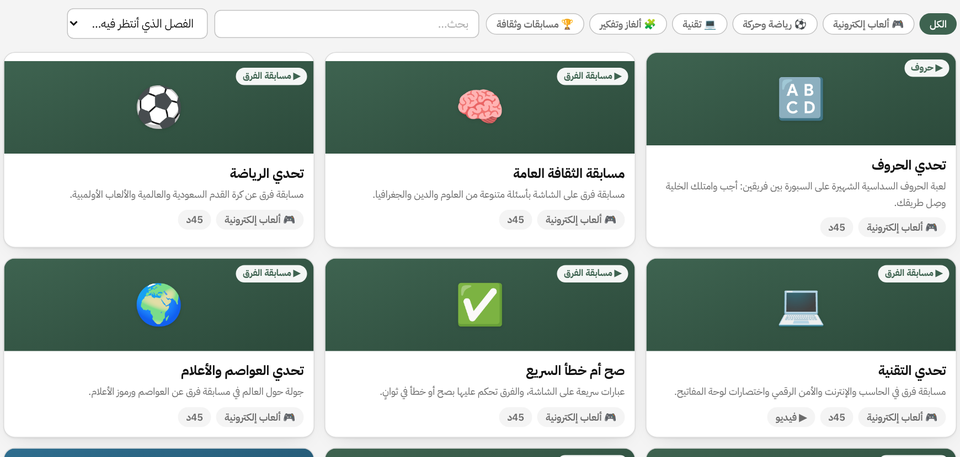
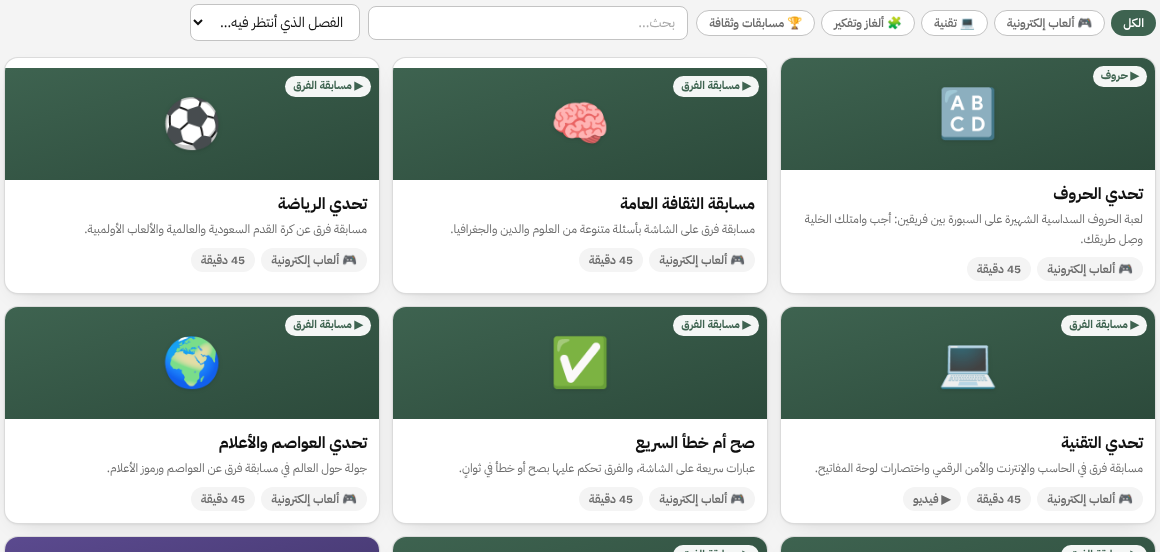
حقيبة الانتظار: إلغاء قسم «رياضة وحركة» لصعوبة تنفيذه، وتحديث المنشور (8 بطاقات)
Claude-Session: https://claude.ai/code/session_01Rgn9H8rfrs15u85uTK8qzM

diff --git a/src/pages/Help.jsx b/src/pages/Help.jsx
@@ -20,7 +20,7 @@ const PROCS = [
   { cat: "المعلم", who: ["المعلم"], title: "تحضير حصة", path: "الحضور والغياب اليومي", steps: ["تفتح الشاشة على الحصة الجارية تلقائيًا، وفي الفسحة على الحصة التي انتهت للتو. أو اختر حصة من الشريط الأفقي.", "راجع قائمة الطلاب: الافتراضي «حاضر» للجميع.", "غيّر حالة من تأخر أو غاب بالضغط على زر الحالة أمام اسمه.", "اضغط «حفظ التحضير» أسفل الشاشة."], note: "الطالب المستأذن بقرار إداري يظهر مقفلًا ولا يعدّله المعلم. وشارة «لم يبصم» تعني أنه لم يدخل المدرسة صباحًا.", warn: "لا تُحضَّر الحصة قبل بدايتها: تظهر باهتة بشارة «لم تبدأ بعد»، ويصير الزر «يُفتح التحضير الساعة …»، ثم يُفتح وحده حين يحين وقتها." },
   { cat: "المعلم", who: ["المعلم"], title: "ملاحظات الطلاب الصحية والسلوكية والنفسية", path: "الحضور والغياب اليومي", steps: ["تحت اسم الطالب في كشف التحضير تظهر شارة إن كانت له ملاحظة: «صحية» بالأحمر، أو «سلوكية» بالأصفر، أو «نفسية» بالأزرق.", "اضغط الشارة لقراءة الملاحظة وما يُطلب منك فعله، مع اسم كاتبها وتاريخها.", "للاطلاع على ملاحظات الفصل كله دفعة واحدة اضغط «ملاحظات الطلاب» أعلى الكشف."], note: "تظهر لك ملاحظات طلاب فصولك فقط. يكتبها الموجه الصحي والموجهون الطلابيون، وتختفي بعد تاريخ مراجعتها ما لم تُجدَّد.", warn: "هذه معلومات خاصة بالطالب: لا تعرضها أمام زملائه أو على شاشة الفصل، ولا تشاركها خارج البوابة." },
   { cat: "المعلم", who: ["المعلم"], title: "تحضير حصة انتظار", path: "القائمة ← حصص الانتظار", steps: ["أثناء الحصة افتح «حصص الانتظار» من القائمة.", "تظهر فصول الحصة الجارية التي لم يحضّرها معلمها بعد ١٠ دقائق من بداية الحصة، مهلةً تعطي المعلم الأصلي فرصة، في حال حضوره، لاستكمال الحصة وإدخال الغياب.", "اضغط «دخول انتظار» أمام الفصل الذي تغطّيه.", "الجميع «حاضر» تلقائيًا، فغيّر فقط من غاب أو تأخر.", "اضغط «حفظ التحضير وتسجيلي معلم انتظار»."], note: "يُسجَّل الانتظار باسمك ويظهر في تقرير حصص الانتظار. وإن لم تجد الفصل فقد حضّره معلمه أو سبقك إليه زميل. وإن حضّره معلمه أثناء فتحك الكشف يُرفض حفظك ولا يُكتب فوق تحضيره. ومن له حصة في جدوله في الوقت نفسه لا تظهر له فصول الانتظار.", warn: "التحضير متاح أثناء الحصة نفسها فقط. والحصة التي لا تُحضَّر يبقى طلابها «لم يُحضَّروا»، فلا يُسجَّل الغائب غائبًا ولا تصله الإنذارات، وتنقص دقة نسبة اليوم." },
-  { cat: "الأنشطة والألعاب", who: ["المعلم"], title: "حقيبة حصص الانتظار", path: "القائمة ← الأنشطة والألعاب ← حقيبة حصص الانتظار", steps: ["بعد تسجيلك في «حصص الانتظار» اضغط «حقيبة حصص الانتظار»، أو افتحها من «الأنشطة والألعاب».", "اختر الفصل الذي تنتظر فيه، فتظهر أولًا الأنشطة التي لم تُقدَّم له من قبل.", "تصفّح الأقسام: ألعاب إلكترونية، ورياضة وحركة، وتقنية، وألغاز، ومسابقات، واختر بطاقة.", "للألعاب اضغط «ابدأ على السبورة» واعرضها بجهاز العرض، والفصل فريقان أو أكثر.", "في النهاية اضغط «نُفّذ» مع تقييمك 👍 أو 👎."], note: "حصة الانتظار للترفيه وتخفيف ضغط الحصص. والتقييم يساعد الوكيل على تطوير الحقيبة.", warn: "روابط الفيديو تحتاج إنترنت على جهاز العرض، أما الألعاب فتعمل دونه." },
+  { cat: "الأنشطة والألعاب", who: ["المعلم"], title: "حقيبة حصص الانتظار", path: "القائمة ← الأنشطة والألعاب ← حقيبة حصص الانتظار", steps: ["بعد تسجيلك في «حصص الانتظار» اضغط «حقيبة حصص الانتظار»، أو افتحها من «الأنشطة والألعاب».", "اختر الفصل الذي تنتظر فيه، فتظهر أولًا الأنشطة التي لم تُقدَّم له من قبل.", "تصفّح الأقسام: ألعاب إلكترونية، وتقنية، وألغاز، ومسابقات، واختر بطاقة.", "للألعاب اضغط «ابدأ على السبورة» واعرضها بجهاز العرض، والفصل فريقان أو أكثر.", "في النهاية اضغط «نُفّذ» مع تقييمك 👍 أو 👎."], note: "حصة الانتظار للترفيه وتخفيف ضغط الحصص. والتقييم يساعد الوكيل على تطوير الحقيبة.", warn: "روابط الفيديو تحتاج إنترنت على جهاز العرض، أما الألعاب فتعمل دونه." },
   { cat: "الأنشطة والألعاب", who: ["المعلم"], title: "لعبة «حروف» ومسابقة الفرق على السبورة", path: "الأنشطة والألعاب ← حقيبة حصص الانتظار ← ألعاب إلكترونية", steps: ["حروف: يختار الفريق حرفًا فاضغطه، واقرأ السؤال؛ جوابه يبدأ بالحرف.", "أول فريق يجيب صحيحًا: اضغط «للأخضر» أو «للأحمر» فتتلوّن الخلية.", "يفوز الأخضر إن وصل اليمين باليسار، والأحمر إن وصل الأعلى بالأسفل، ثم «جولة جديدة».", "مسابقة الفرق: اختر عدد الفرق ووقت السؤال، واعرض السؤال، ثم «إظهار الإجابة» وامنح النقطة للفريق الذي أجاب أولًا."], note: "تتخلل الألعاب أسئلة «🏫 من مدرستي» تُولَّد تلقائيًا من البوابة: معلمو المواد، والإدارة، وعدد الفصول، وأوقات الحصص، ومعمل الحاسب، والمناسبات — دون أي معلومة عن الطلاب. وتحتاج إنترنت لحظة البدء فقط. اضغط F لملء الشاشة، و«خروج» للعودة." },
   { cat: "الأنشطة والألعاب", who: ["المعلم"], title: "الأنشطة الصفية وأدوات الصف", path: "القائمة ← الأنشطة والألعاب", steps: ["«الأنشطة الصفية»: استراتيجيات وأنشطة جاهزة لدرسك، بخطواتها وزمنها.", "«أدوات الصف ودوري المادة»: اختر فصلك ومادتك من جدولك.", "«اختيار طالب»: اختيار عشوائي بلا تكرار، ويمكنك منحه نقاطًا في الدوري مباشرة.", "«المؤقت»: لأنشطة الوقت المحدد، و«عرض على السبورة» لعرض أي أداة بخط كبير.", "«🪟 نافذة عائمة»: تفتح الأدوات، أو خطوات النشاط الصفي مع مؤقت، في نافذة صغيرة تبقى فوق عرض درسك فتعود إليها متى احتجت."], warn: "النافذة العائمة تبقى فوق كل النوافذ في Chrome وEdge، وفي غيرهما تُفتح نافذة صغيرة مستقلة؛ وإن لم تظهر فاسمح بالنوافذ المنبثقة للبوابة.", note: "اضغط «نُفّذ» بعد النشاط الصفي، فيُسجَّل شاهدًا آليًا في ملف الأداء الوظيفي: 4-2 تفعيل الاستراتيجيات، و8-4 التنويع، و9-5 تنظيم الطلاب للأنشطة التعاونية." },
   { cat: "الأنشطة والألعاب", who: ["المعلم"], title: "دوري المادة وكأس المادة", path: "الأنشطة والألعاب ← أدوات الصف ودوري المادة", steps: ["دوري المادة (أفراد): اضغط اسم الطالب وامنحه +1 إلى +5، أو −1، مع سبب اختياري.", "كأس المادة (مجموعات): كوّن مجموعات الفصل عشوائيًا مرة واحدة، وغيّر أسماءها، وامنح المجموعة نقاطها.", "اعرض الترتيب على السبورة لتحفيز الطلاب.", "في نهاية الفصل الدراسي اضغط «شهادة بطل الدوري»، أو «شهادات بطل الكأس» (شهادة لكل عضو في المجموعة)، ثم «طباعة»."], note: "المنافسة بين طلاب الفصل الواحد في المادة، والنقاط تتجمع حتى نهاية الفصل الدراسي، فصاحب الأعلى بطل الدوري، والمجموعة الأعلى بطلة الكأس. وتُحتسب أيام منح النقاط شاهدًا آليًا في ملف الأداء (8-4)." },

diff --git a/src/activity-content/waiting.js b/src/activity-content/waiting.js
@@ -1,4 +1,4 @@
-// حقيبة حصص الانتظار: بطاقات جاهزة لحصة كاملة (45 دقيقة) يديرها أي معلم، أولويتها الترفيه والرياضة والتقنية والألعاب
+// حقيبة حصص الانتظار: بطاقات جاهزة لحصة كاملة (45 دقيقة) يديرها أي معلم، أولويتها الترفيه والألعاب والتقنية
 export default [
   // ===================== ألعاب إلكترونية على السبورة =====================
   {
@@ -436,133 +436,6 @@ export default [
         { q: "بيت بلا أبواب ولا نوافذ، يخرج منه ساكنه بكسر جداره، فما هو؟", options: ["الكهف", "البيضة", "الخيمة", "القوقعة"], answer: 1 },
       ],
     },
-  },
-
-  // ===================== رياضة وحركة داخل الفصل =====================
-  {
-    seed: "w-sports-leader-says",
-    kind: "waiting",
-    section: "sports",
-    title: "قال القائد",
-    summary: "لعبة حركية سريعة: نفّذ الحركة فقط إذا بدأت بعبارة «قال القائد».",
-    duration_min: 45,
-    goals: "تنشيط الجسم وكسر الخمول، وتنمية الانتباه وسرعة الاستجابة.",
-    materials: "لا شيء",
-    steps: [
-      { min: 5, text: "يقف الطلاب بجوار مقاعدهم بعد إبعاد الحقائب عن الممرات، واشرح القاعدة: نفّذ فقط ما يسبقه «قال القائد»." },
-      { min: 15, text: "أعطِ أوامر حركية خفيفة (ارفع يدك، المس كتفك، اجلس وقف، دُر في مكانك)، ومن ينفذ أمرًا بلا «قال القائد» يجلس." },
-      { min: 15, text: "اجعل آخر ثلاثة طلاب قادة يديرون الجولات التالية، مع تسريع الإيقاع تدريجيًا." },
-      { min: 7, text: "جولة النهائي بين أفضل خمسة طلاب أمام الفصل." },
-      { min: 3, text: "تمارين تهدئة: تنفس عميق خمس مرات ثم الجلوس." },
-    ],
-    grades: [],
-    emoji: "🫡",
-    game: null,
-    game_data: null,
-  },
-  {
-    seed: "w-sports-desk-stretch",
-    kind: "waiting",
-    section: "sports",
-    title: "لياقة المقعد",
-    summary: "برنامج إطالة وتمارين خفيفة يؤديها الطالب بجوار مقعده لتنشيط الجسم.",
-    duration_min: 45,
-    goals: "تخفيف آثار الجلوس الطويل، ونشر ثقافة النشاط البدني اليومي.",
-    materials: "لا شيء (ساعة أو مؤقت على الشاشة اختياريًا)",
-    steps: [
-      { min: 5, text: "اشرح فائدة الحركة بعد الجلوس الطويل، وتأكد من وجود مسافة آمنة بين الطلاب." },
-      { min: 10, text: "إطالة من الرأس إلى القدم: الرقبة، الكتفان، الذراعان، الظهر، السمانة، مع ثبات 15 ثانية لكل وضع." },
-      { min: 15, text: "دوائر لياقة: 30 ثانية لكل تمرين (قرفصاء، جلوس على الحائط، دوائر الذراعين، رفع الركبتين في المكان) ثم 30 ثانية راحة." },
-      { min: 10, text: "يقود كل صف من الطلاب تمرينًا آمنًا يقترحه أمام الفصل." },
-      { min: 5, text: "تهدئة وتنفس عميق، ثم حوار قصير: كيف تضيف خمس دقائق حركة إلى يومك؟" },
-    ],
-    grades: [],
-    emoji: "🤸",
-    game: null,
-    game_data: null,
-  },
-  {
-    seed: "w-sports-paper-basket",
-    kind: "waiting",
-    section: "sports",
-    title: "سلة الورق",
-    summary: "دوري تصويب بكرات ورقية نحو سلة المهملات بين فرق الفصل.",
-    duration_min: 45,
-    goals: "تنمية دقة التصويب والتآزر، وإدخال المرح بمنافسة رياضية بسيطة.",
-    materials: "سلة مهملات فارغة أو صندوق، وأوراق مستعملة تُكوَّر كرات",
-    steps: [
-      { min: 5, text: "ضع السلة أمام السبورة، وحدد بشريط أو طباشير ثلاثة خطوط تصويب: قريب (نقطة)، متوسط (نقطتان)، بعيد (ثلاث)." },
-      { min: 5, text: "قسّم الفصل إلى أربع فرق، ويصنع كل فريق خمس كرات ورقية." },
-      { min: 25, text: "يتناوب لاعبو الفرق على التصويب، ويختار كل لاعب الخط الذي يناسبه، وسجّل النقاط على السبورة." },
-      { min: 7, text: "النهائي: أفضل لاعب من كل فريق، ثلاث رميات من الخط البعيد." },
-      { min: 3, text: "أعلن البطل، ويجمع الجميع الأوراق في السلة لتبقى الغرفة نظيفة." },
-    ],
-    grades: [],
-    emoji: "🏀",
-    game: null,
-    game_data: null,
-  },
-  {
-    seed: "w-sports-fitness-dice",
-    kind: "waiting",
-    section: "sports",
-    title: "نرد اللياقة",
-    summary: "يُرمى النرد ليحدد التمرين وعدد تكراراته في تحدٍّ بين الصفوف.",
-    duration_min: 45,
-    goals: "رفع النشاط البدني بطريقة عشوائية مشوقة، وتعزيز روح الفريق.",
-    materials: "نرد واحد أو اثنان (أو نرد رقمي على الشاشة)",
-    steps: [
-      { min: 5, text: "اكتب على السبورة ستة تمارين آمنة مرقمة: 1 قرفصاء، 2 رفع الركبتين، 3 دوائر الذراعين، 4 الوقوف على قدم واحدة، 5 جلوس على الحائط، 6 تمرين يختاره الطالب." },
-      { min: 25, text: "يرمي طالب من كل صف النرد الأول لتحديد التمرين، والثاني لعدد التكرارات ×5، وينفذه الصف كله معًا." },
-      { min: 10, text: "تحدي الصفوف: أي صف ينفذ التمرين بانضباط وتزامن أفضل يكسب نقطة." },
-      { min: 5, text: "تهدئة وإطالة، ثم إعلان الصف الأكثر انضباطًا." },
-    ],
-    grades: [],
-    emoji: "🎲",
-    game: null,
-    game_data: null,
-  },
-  {
-    seed: "w-sports-question-ball",
-    kind: "waiting",
-    section: "sports",
-    title: "الكرة الطائرة بالأسئلة",
-    summary: "تتنقل كرة ورقية بين الطلاب، ومن يلتقطها يجيب سؤالًا سريعًا.",
-    duration_min: 45,
-    goals: "الجمع بين الحركة الخفيفة والتفكير السريع والمشاركة الشاملة.",
-    materials: "كرة إسفنجية أو كرة ورق ملفوفة بشريط لاصق",
-    steps: [
-      { min: 5, text: "يقف الطلاب في أماكنهم، واشرح القاعدة: تُرمى الكرة رمية خفيفة من أسفل، ومن يلتقطها يجيب." },
-      { min: 15, text: "جولة «اذكر ثلاثة»: من يلتقط الكرة يذكر ثلاثة أشياء من فئة تحددها (أندية، دول، فواكه...) ثم يرمي لغيره." },
-      { min: 15, text: "جولة «سؤال وجواب»: الملتقط يطرح سؤالًا معلوماتيًا على من يرمي إليه." },
-      { min: 7, text: "جولة السرعة: من يتأخر أكثر من 5 ثوانٍ يجلس، حتى يبقى ثلاثة أبطال." },
-      { min: 3, text: "تحية للأبطال وجلوس هادئ." },
-    ],
-    grades: [],
-    emoji: "🏐",
-    game: null,
-    game_data: null,
-  },
-  {
-    seed: "w-sports-balance",
-    kind: "waiting",
-    section: "sports",
-    title: "تحدي التوازن والتركيز",
-    summary: "سلسلة تحديات توازن وتنسيق آمنة تناسب المساحة الصغيرة.",
-    duration_min: 45,
-    goals: "تنمية التوازن والتآزر الحركي والتركيز وضبط النفس.",
-    materials: "كتاب أو دفتر لكل طالب، وقلم",
-    steps: [
-      { min: 5, text: "اشرح التحديات وأكد على السلامة: لا قفز ولا دفع، وكل طالب في مساحته." },
-      { min: 10, text: "تحدي القدم الواحدة: الوقوف على قدم واحدة أطول مدة ممكنة، ثم بعينين مغمضتين." },
-      { min: 10, text: "تحدي الكتاب: المشي ببطء في الممر وكتاب على الرأس ذهابًا وإيابًا، بالتناوب بين الصفوف." },
-      { min: 15, text: "تحدي التنسيق: لمس الأنف بيد والأذن المقابلة باليد الأخرى ثم التبديل بسرعة متزايدة، وتمرير قلم بين الصف دون استخدام الإبهام." },
-      { min: 5, text: "تتويج أبطال كل تحدٍّ، ثم تمرين تنفس للتهدئة." },
-    ],
-    grades: [],
-    emoji: "🧘",
-    game: null,
-    game_data: null,
   },
 
   // ===================== تقنية =====================

diff --git a/docs/activities-post/post.html b/docs/activities-post/post.html
@@ -59,7 +59,7 @@ h1 em{font-style:normal;color:#3E6350}
 
 <div class="row">
  <div class="feats">
-  <div class="c"><i><img src="../model-lesson/build/icons/Puzzle.png"></i><div><b>حقيبة حصص الانتظار</b><p>8 أنشطة ترفيهية: ألعاب إلكترونية، ورياضة وحركة، وتقنية، وألغاز.</p></div></div>
+  <div class="c"><i><img src="../model-lesson/build/icons/Puzzle.png"></i><div><b>حقيبة حصص الانتظار</b><p>8 أنشطة ترفيهية: ألعاب إلكترونية، وتقنية، وألغاز.</p></div></div>
   <div class="c"><i><img src="../model-lesson/build/icons/Rocket.png"></i><div><b>الأنشطة الصفية</b><p>20 استراتيجية تعلّم نشط جاهزة بخطواتها وزمنها، في نافذة عائمة فوق عرض درسك.</p></div></div>
   <div class="c"><i><img src="../model-lesson/build/icons/Trophy.png"></i><div><b>دوري المادة وكأسها</b><p>نقاط للطلاب أفرادًا ومجموعات، وشهادة للبطل في نهاية الفصل الدراسي.</p></div></div>
   <div class="c"><i><img src="../model-lesson/build/icons/Timer.png"></i><div><b>أدوات الصف</b><p>اختيار طالب عشوائي، ومؤقت، وعرض على السبورة بخط كبير.</p></div></div>

diff --git a/src/lib/activities.js b/src/lib/activities.js
@@ -2,10 +2,9 @@
 // بنك الأنشطة (supabase/activities_1.sql و_2): أقسام الحقيبة والأنشطة الصفية، والوسائط.
 import { supabase } from "./supabase";
 
-// حقيبة حصص الانتظار: الترفيه أولًا، والألعاب والرياضة والتقنية في المقدمة
+// حقيبة حصص الانتظار: الترفيه أولًا، والألعاب والتقنية في المقدمة
 export const WAITING_SECTIONS = [
   { key: "games",   label: "ألعاب إلكترونية", emoji: "🎮", tint: "from-[#3E6350] to-[#2C4A3B]" },
-  { key: "sports",  label: "رياضة وحركة",     emoji: "⚽", tint: "from-[#2F6E8F] to-[#1F4E66]" },
   { key: "tech",    label: "تقنية",           emoji: "💻", tint: "from-[#5B4A8F] to-[#3E3266]" },
   { key: "puzzles", label: "ألغاز وتفكير",    emoji: "🧩", tint: "from-[#8F6A2F] to-[#664B1F]" },
   { key: "culture", label: "مسابقات وثقافة",  emoji: "🏆", tint: "from-[#8F3F3F] to-[#662C2C]" },

diff --git a/src/pages/activities/ActivityBank.jsx b/src/pages/activities/ActivityBank.jsx
@@ -64,7 +64,7 @@ export default function ActivityBank({ kind, teacher }) {
     <div className="space-y-4">
       {kind === "waiting" && (
         <div className="rounded-card bg-mint-tint px-4 py-3 text-sm leading-relaxed text-ink">
-          <b>حصة الانتظار للترفيه:</b> أنشطة تخفف عن الطلاب ضغط الحصص — ألعاب على السبورة، ورياضة وحركة، وتقنية. اختر واحدة وابدأ خلال دقيقة.
+          <b>حصة الانتظار للترفيه:</b> أنشطة تخفف عن الطلاب ضغط الحصص — ألعاب على السبورة، وتقنية، وألغاز. اختر واحدة وابدأ خلال دقيقة.
         </div>
       )}
       <div className="flex flex-wrap items-center gap-2">

diff --git a/src/pages/teacher/SubstitutePeriod.jsx b/src/pages/teacher/SubstitutePeriod.jsx
@@ -373,7 +373,7 @@ export default function SubstitutePeriod() {
             className="flex items-center gap-3 rounded-card border border-mint-light bg-paper px-4 py-3 transition-colors hover:bg-mint-tint">
         <span className="text-2xl">🎮</span>
         <span className="flex-1 text-sm"><b className="text-ink">حقيبة حصص الانتظار</b>
-          <span className="block text-xs text-muted">ألعاب على السبورة، ورياضة وحركة، وتقنية — جاهزة لحصتك</span></span>
+          <span className="block text-xs text-muted">ألعاب على السبورة، وتقنية، وألغاز — جاهزة لحصتك</span></span>
         <span className="text-mint-deep">←</span>
       </Link>
 

diff --git a/docs/activities-post/post.md b/docs/activities-post/post.md
@@ -11,7 +11,7 @@
 زملاءنا المعلمين،
 أنشطة جاهزة بضغطة، تُعرض على السبورة **حتى دون إنترنت**، وكل نشاط تنفّذه **شاهد آلي في ملف أدائك**:
 
-🧩 **حقيبة حصص الانتظار:** 8 أنشطة ترفيهية تخفف عن الطلاب ضغط الحصص — ألعاب إلكترونية، ورياضة وحركة، وتقنية، وألغاز.
+🧩 **حقيبة حصص الانتظار:** 8 أنشطة ترفيهية تخفف عن الطلاب ضغط الحصص — ألعاب إلكترونية، وتقنية، وألغاز.
 
 🔤 **«حروف» ومسابقات الفرق:** على جهاز العرض، والفصل فرق تتنافس.
 
